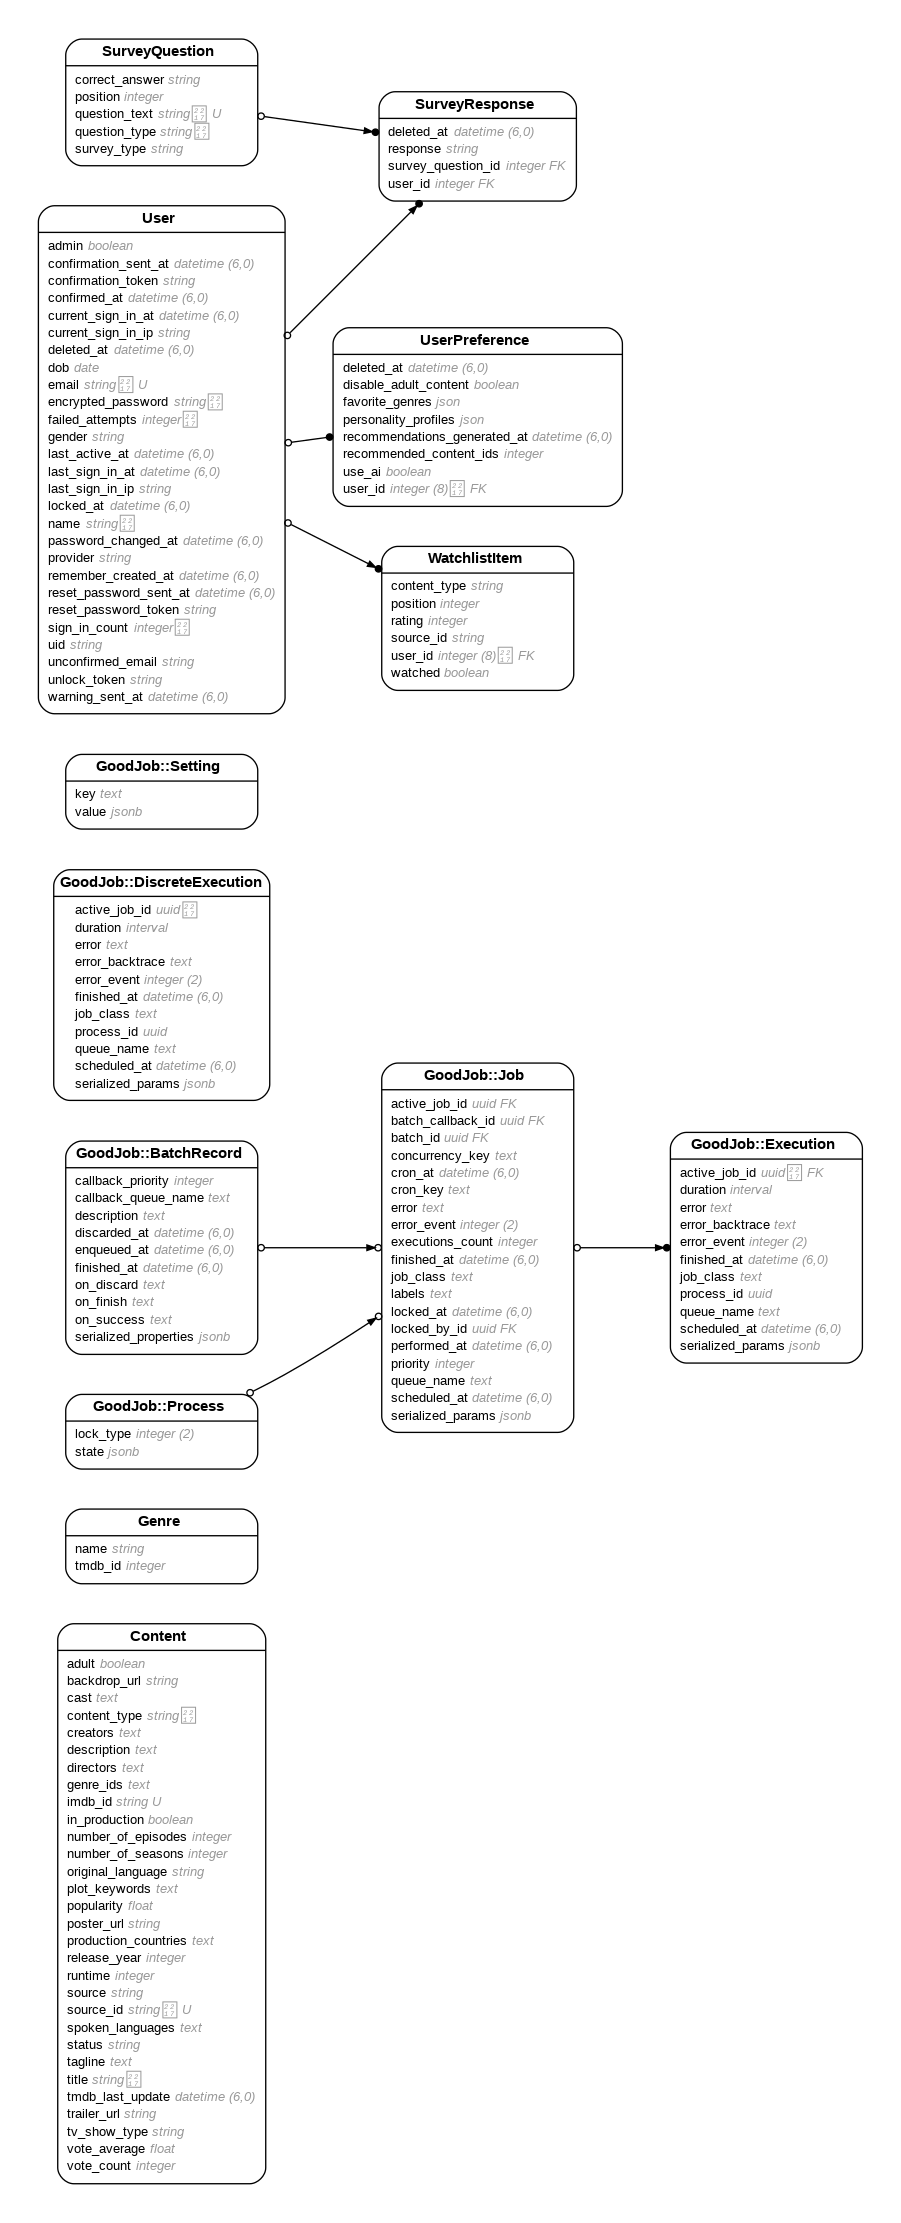
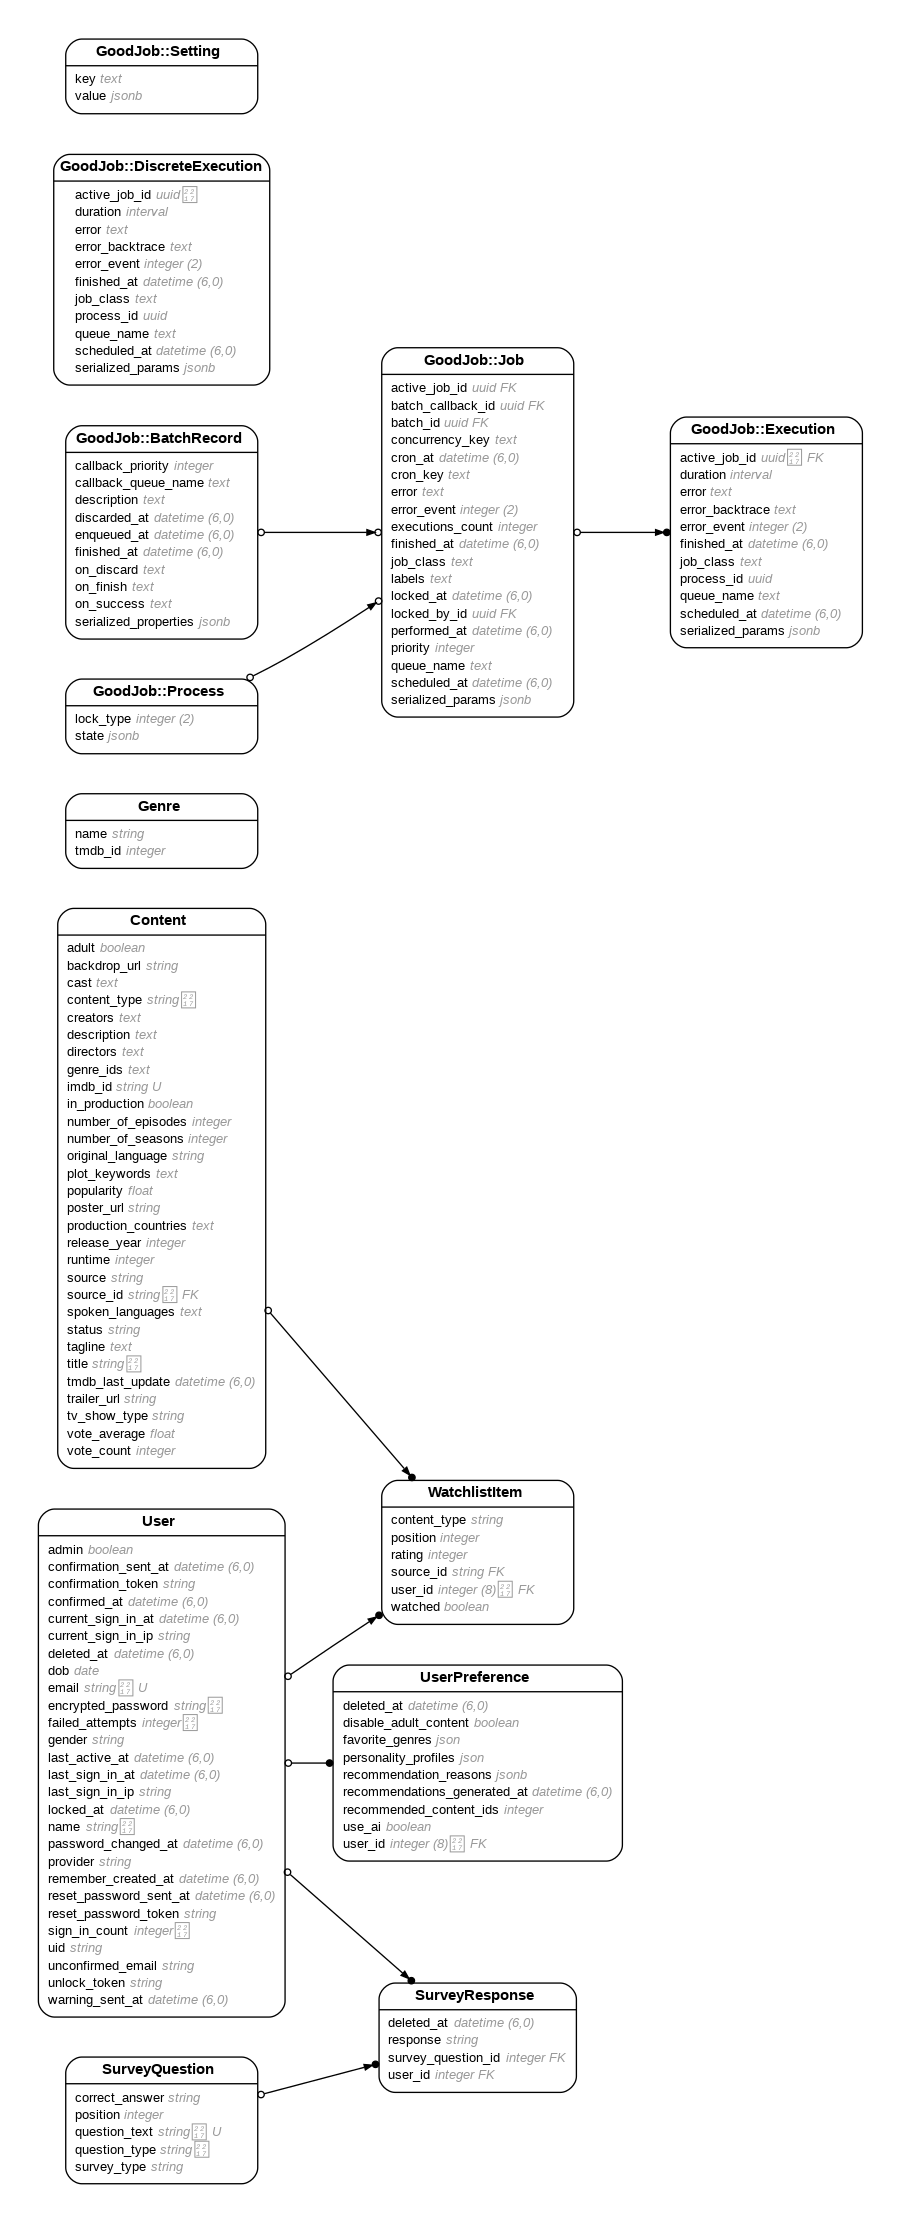
add reasons to recommendations

diff --git a/app/services/ai_recommendation_service.rb b/app/services/ai_recommendation_service.rb
@@ -106,28 +106,35 @@ class AiRecommendationService
 
   def self.process_recommendations(recommendations, disable_adult_content)
     Rails.logger.info "AI Service received #{recommendations.size} recommendations from OpenAI"
-    Rails.logger.info "Raw AI recommendations: #{recommendations.to_json}"
     
-    content_ids = recommendations.map do |rec|
-      possible_matches = find_all_content_versions(rec)
-      next if possible_matches.empty?
+    content_ids = []
+    reasons = {}
+    
+    recommendations.each do |rec|
+      Rails.logger.info "Processing recommendation: #{rec['title']} (#{rec['year']})"
+      contents = find_all_content_versions(rec)
+      next if contents.empty?
       
-      possible_matches = possible_matches.reject(&:adult?) if disable_adult_content
-      next if possible_matches.empty?
+      # Filter adult content if needed
+      contents = contents.reject(&:adult?) if disable_adult_content
+      next if contents.empty?
       
-      # If year is provided, prioritize exact year match
-      if rec["year"] && (exact_match = possible_matches.find { |c| c.release_year == rec["year"] })
-        exact_match.id
+      # Get best matching content
+      content = if rec["year"] && (year_match = contents.find { |c| c.release_year == rec["year"] })
+        year_match
       else
-        possible_matches.first.id
+        contents.first
       end
-    end.compact
+      
+      content_ids << content.id
+      reasons[content.id.to_s] = rec["reason"] if rec["reason"].present?
+      Rails.logger.info "Added content: #{content.title} (ID: #{content.id})"
+    end
 
     unique_ids = content_ids.uniq
-    Rails.logger.info "Found #{content_ids.size} total content matches (#{unique_ids.size} unique)"
-    Rails.logger.info "Duplicate IDs: #{content_ids.tally.select { |_, count| count > 1 }}" if content_ids.size != unique_ids.size
+    Rails.logger.info "Processed #{unique_ids.size} unique recommendations with #{reasons.size} reasons"
     
-    unique_ids.first(100)
+    [unique_ids.first(100), reasons]
   end
 
   def self.find_all_content_versions(recommendation)

diff --git a/app/models/user_preference.rb b/app/models/user_preference.rb
@@ -9,6 +9,7 @@
 #  disable_adult_content        :boolean
 #  favorite_genres              :json
 #  personality_profiles         :json
+#  recommendation_reasons       :jsonb
 #  recommendations_generated_at :datetime
 #  recommended_content_ids      :integer          default([]), is an Array
 #  use_ai                       :boolean          default(FALSE)
@@ -40,16 +41,21 @@ class UserPreference < ApplicationRecord
   def generate_recommendations
     return [] if personality_profiles.blank? || favorite_genres.blank?
 
-    recommended_ids = if use_ai
-      AiRecommendationService.generate_recommendations(self)
+    if use_ai
+      recommended_ids, reasons = AiRecommendationService.generate_recommendations(self)
+      update(
+        recommended_content_ids: recommended_ids,
+        recommendation_reasons: reasons,
+        recommendations_generated_at: Time.current
+      )
     else
-      generate_internal_recommendations
+      recommended_ids = generate_internal_recommendations
+      update(
+        recommended_content_ids: recommended_ids,
+        recommendation_reasons: {},
+        recommendations_generated_at: Time.current
+      )
     end
-
-    update(
-      recommended_content_ids: recommended_ids,
-      recommendations_generated_at: Time.current
-    )
     
     Rails.cache.delete_matched("user_#{user_id}_recommendations_*")
     Rails.cache.delete("user_#{user_id}_recommendations_page_1")

diff --git a/app/controllers/recommendations_controller.rb b/app/controllers/recommendations_controller.rb
@@ -104,12 +104,8 @@ class RecommendationsController < ApplicationController
     
     # Load all recommendations first
     all_recommendations = Content.where(id: @user_preference.recommended_content_ids)
+    all_recommendations = all_recommendations.where(adult: [false, nil]) if @user_preference.disable_adult_content
     
-    if @user_preference.disable_adult_content
-      all_recommendations = all_recommendations.where(adult: [false, nil])
-    end
-    
-    # Map and calculate scores for all recommendations
     mapped_recommendations = all_recommendations.map do |content|
       match_score = @user_preference.calculate_match_score(content.genre_ids_array) || 0
       
@@ -123,14 +119,12 @@ class RecommendationsController < ApplicationController
         release_year: content.release_year,
         genres: Genre.where(tmdb_id: content.genre_ids_array).pluck(:name),
         vote_average: content.vote_average,
-        match_score: match_score
+        match_score: match_score,
+        reason: @user_preference.recommendation_reasons[content.id.to_s]
       }
     end
 
-    # Sort all recommendations by match score
     sorted_recommendations = mapped_recommendations.sort_by { |r| -r[:match_score] }
-    
-    # Then paginate the sorted results
     sorted_recommendations[offset, per_page] || []
   end
 

diff --git a/db/schema.rb b/db/schema.rb
@@ -10,7 +10,7 @@
 #
 # It's strongly recommended that you check this file into your version control system.
 
-ActiveRecord::Schema[7.1].define(version: 2025_02_17_041509) do
+ActiveRecord::Schema[7.1].define(version: 2025_02_17_223242) do
   # These are extensions that must be enabled in order to support this database
   enable_extension "pg_trgm"
   enable_extension "pgcrypto"
@@ -197,6 +197,7 @@ ActiveRecord::Schema[7.1].define(version: 2025_02_17_041509) do
     t.integer "recommended_content_ids", default: [], array: true
     t.datetime "recommendations_generated_at"
     t.boolean "use_ai", default: false
+    t.jsonb "recommendation_reasons", default: {}
     t.index ["deleted_at"], name: "index_user_preferences_on_deleted_at"
     t.index ["user_id"], name: "index_user_preferences_on_user_id"
   end

diff --git a/app/models/survey_question.rb b/app/models/survey_question.rb
@@ -4,11 +4,18 @@
 #
 # Table name: survey_questions
 #
-#  id            :bigint           not null, primary key
-#  question_text :string
-#  question_type :string
-#  created_at    :datetime         not null
-#  updated_at    :datetime         not null
+#  id             :bigint           not null, primary key
+#  correct_answer :string
+#  position       :integer
+#  question_text  :string
+#  question_type  :string
+#  survey_type    :string
+#  created_at     :datetime         not null
+#  updated_at     :datetime         not null
+#
+# Indexes
+#
+#  index_survey_questions_on_survey_type  (survey_type)
 #
 class SurveyQuestion < ApplicationRecord
   has_many :survey_responses, foreign_key: 'survey_question_id'

diff --git a/spec/factories/survey_questions.rb b/spec/factories/survey_questions.rb
@@ -1,3 +1,20 @@
+# == Schema Information
+#
+# Table name: survey_questions
+#
+#  id             :bigint           not null, primary key
+#  correct_answer :string
+#  position       :integer
+#  question_text  :string
+#  question_type  :string
+#  survey_type    :string
+#  created_at     :datetime         not null
+#  updated_at     :datetime         not null
+#
+# Indexes
+#
+#  index_survey_questions_on_survey_type  (survey_type)
+#
 FactoryBot.define do
   factory :survey_question do
     question_text { Faker::Lorem.question }

diff --git a/spec/factories/survey_responses.rb b/spec/factories/survey_responses.rb
@@ -1,3 +1,19 @@
+# == Schema Information
+#
+# Table name: survey_responses
+#
+#  id                 :bigint           not null, primary key
+#  deleted_at         :datetime
+#  response           :string
+#  created_at         :datetime         not null
+#  updated_at         :datetime         not null
+#  survey_question_id :integer
+#  user_id            :integer
+#
+# Indexes
+#
+#  index_survey_responses_on_deleted_at  (deleted_at)
+#
 FactoryBot.define do
   factory :survey_response do
     association :user

diff --git a/spec/models/survey_response_spec.rb b/spec/models/survey_response_spec.rb
@@ -1,3 +1,19 @@
+# == Schema Information
+#
+# Table name: survey_responses
+#
+#  id                 :bigint           not null, primary key
+#  deleted_at         :datetime
+#  response           :string
+#  created_at         :datetime         not null
+#  updated_at         :datetime         not null
+#  survey_question_id :integer
+#  user_id            :integer
+#
+# Indexes
+#
+#  index_survey_responses_on_deleted_at  (deleted_at)
+#
 require 'rails_helper'
 
 RSpec.describe SurveyResponse, type: :model do

diff --git a/spec/models/survey_question_spec.rb b/spec/models/survey_question_spec.rb
@@ -1,3 +1,20 @@
+# == Schema Information
+#
+# Table name: survey_questions
+#
+#  id             :bigint           not null, primary key
+#  correct_answer :string
+#  position       :integer
+#  question_text  :string
+#  question_type  :string
+#  survey_type    :string
+#  created_at     :datetime         not null
+#  updated_at     :datetime         not null
+#
+# Indexes
+#
+#  index_survey_questions_on_survey_type  (survey_type)
+#
 require 'rails_helper'
 
 RSpec.describe SurveyQuestion, type: :model do

diff --git a/db/migrate/20250217223242_add_recommendation_reasons_to_user_preferences.rb b/db/migrate/20250217223242_add_recommendation_reasons_to_user_preferences.rb
@@ -1,0 +1,5 @@
+class AddRecommendationReasonsToUserPreferences < ActiveRecord::Migration[7.1]
+  def change
+    add_column :user_preferences, :recommendation_reasons, :jsonb, default: {}
+  end
+end
